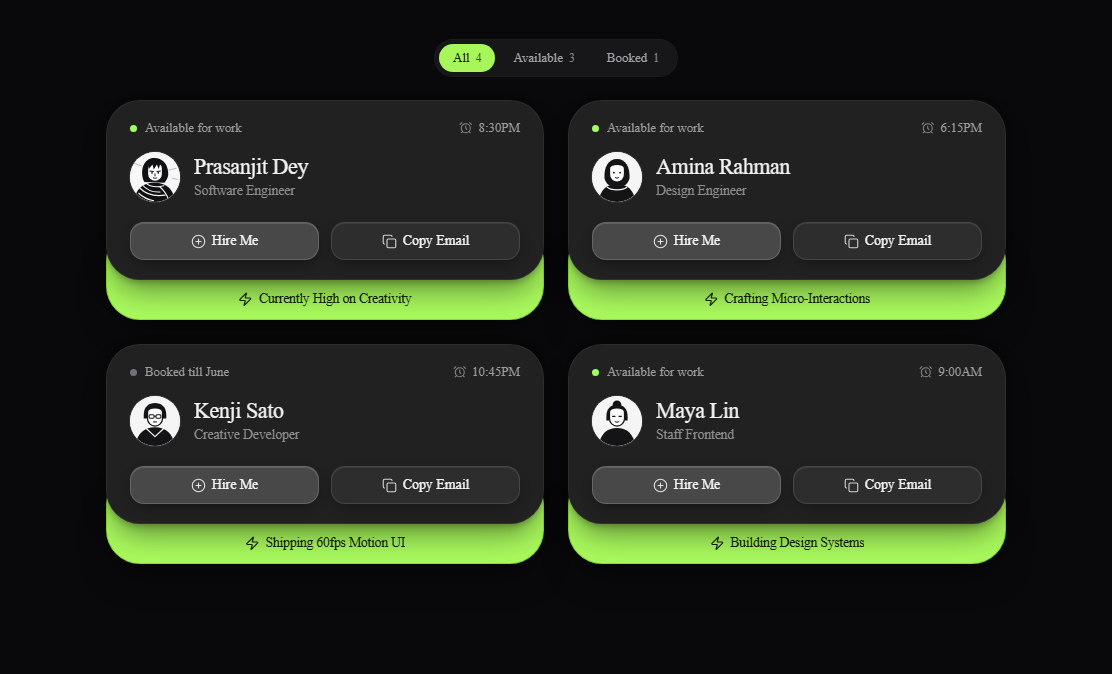
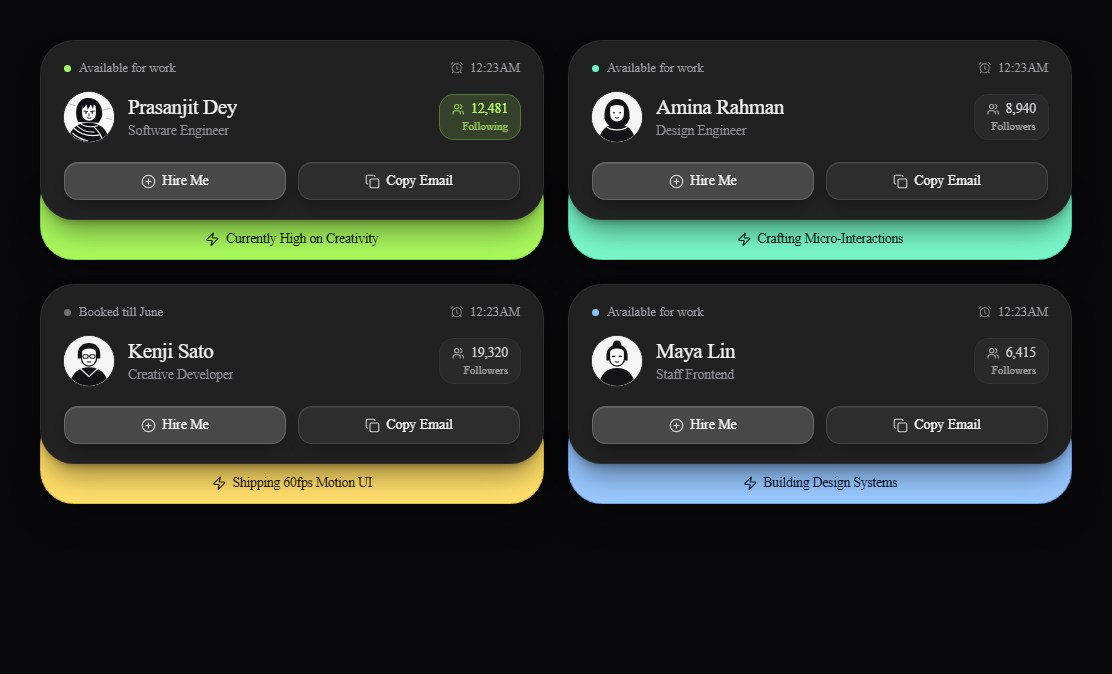
feat(registry): save DeveloperProfileGrid (developer-profile-grid) to project repo

diff --git a/registry/components/developer-profile-grid/component.tsx b/registry/components/developer-profile-grid/component.tsx
@@ -2,7 +2,7 @@
 
 import React, { useCallback, useEffect, useId, useRef, useState } from "react";
 import { AnimatePresence, motion, useReducedMotion } from "framer-motion";
-import { AlarmClock, Check, Copy, PlusCircle, Zap } from "lucide-react";
+import { AlarmClock, Check, Copy, PlusCircle, Users, Zap } from "lucide-react";
 
 function cn(...classes: Array<string | false | null | undefined>): string {
   return classes.filter(Boolean).join(" ");
@@ -19,6 +19,7 @@ export interface DeveloperProfileGridItem {
   bannerText: string;
   email: string;
   timeLabel: string;
+  followers: number;
   avatarUrl?: string;
   avatarVariant?: 0 | 1 | 2 | 3;
   accent?: TrayAccent;
@@ -34,12 +35,16 @@ export interface DeveloperProfileGridProps
   accentMode?: "lime" | "multicolor";
   /** Show interactive All / Available / Booked filter bar above the grid */
   showFilter?: boolean;
+  /** Show interactive follower count badge on each card */
+  showFollowers?: boolean;
   /** Display live local clock instead of static timeLabel */
   liveClock?: boolean;
   /** Fired when Hire Me is clicked on any card */
   onHireProfile?: (profile: DeveloperProfileGridItem) => void;
   /** Fired when Copy Email is clicked on any card */
   onCopyProfileEmail?: (profile: DeveloperProfileGridItem) => void;
+  /** Fired when Follow pill is toggled on any card */
+  onToggleFollow?: (profile: DeveloperProfileGridItem, following: boolean) => void;
 }
 
 const DEFAULT_PROFILES: DeveloperProfileGridItem[] = [
@@ -52,6 +57,7 @@ const DEFAULT_PROFILES: DeveloperProfileGridItem[] = [
     bannerText: "Currently High on Creativity",
     email: "prasanjit@example.com",
     timeLabel: "8:30PM",
+    followers: 12480,
     avatarVariant: 0,
     accent: "lime",
   },
@@ -64,6 +70,7 @@ const DEFAULT_PROFILES: DeveloperProfileGridItem[] = [
     bannerText: "Crafting Micro-Interactions",
     email: "amina@example.com",
     timeLabel: "6:15PM",
+    followers: 8940,
     avatarVariant: 1,
     accent: "mint",
   },
@@ -76,6 +83,7 @@ const DEFAULT_PROFILES: DeveloperProfileGridItem[] = [
     bannerText: "Shipping 60fps Motion UI",
     email: "kenji@example.com",
     timeLabel: "10:45PM",
+    followers: 19320,
     avatarVariant: 2,
     accent: "amber",
   },
@@ -88,6 +96,7 @@ const DEFAULT_PROFILES: DeveloperProfileGridItem[] = [
     bannerText: "Building Design Systems",
     email: "maya@example.com",
     timeLabel: "9:00AM",
+    followers: 6415,
     avatarVariant: 3,
     accent: "sky",
   },
@@ -100,6 +109,7 @@ const ACCENT_STYLES: Record<
     text: string;
     dot: string;
     copiedText: string;
+    followActive: string;
   }
 > = {
   lime: {
@@ -107,24 +117,28 @@ const ACCENT_STYLES: Record<
     text: "text-[#111c06]",
     dot: "bg-[#a0ff63]",
     copiedText: "text-[#b2fc68]",
+    followActive: "bg-[#a7f75b]/15 text-[#b2fc68] ring-[#a7f75b]/40",
   },
   mint: {
     tray: "bg-gradient-to-b from-[#6df5c4] to-[#7cf8cc] border-[#4cd9a6]",
     text: "text-[#062017]",
     dot: "bg-[#6df5c4]",
     copiedText: "text-[#7cf8cc]",
+    followActive: "bg-[#6df5c4]/15 text-[#7cf8cc] ring-[#6df5c4]/40",
   },
   amber: {
     tray: "bg-gradient-to-b from-[#ffd859] to-[#ffdf6e] border-[#e4bc3b]",
     text: "text-[#261c04]",
     dot: "bg-[#ffd859]",
     copiedText: "text-[#ffdf6e]",
+    followActive: "bg-[#ffd859]/15 text-[#ffdf6e] ring-[#ffd859]/40",
   },
   sky: {
     tray: "bg-gradient-to-b from-[#8cc0ff] to-[#9bc9ff] border-[#6ba4ea]",
     text: "text-[#08192e]",
     dot: "bg-[#8cc0ff]",
     copiedText: "text-[#9bc9ff]",
+    followActive: "bg-[#8cc0ff]/15 text-[#9bc9ff] ring-[#8cc0ff]/40",
   },
 };
 
@@ -135,6 +149,10 @@ function formatCurrentTime(): string {
   const suffix = hours >= 12 ? "PM" : "AM";
   hours = hours % 12 || 12;
   return `${hours}:${minutes}${suffix}`;
+}
+
+function formatFollowers(count: number): string {
+  return count.toLocaleString("en-US");
 }
 
 function MonochromeAvatar({
@@ -207,22 +225,27 @@ function MonochromeAvatar({
 interface GridProfileCardProps {
   profile: DeveloperProfileGridItem;
   accentKey: TrayAccent;
+  showFollowers: boolean;
   liveClock: boolean;
   prefersReducedMotion: boolean;
   onHire?: (profile: DeveloperProfileGridItem) => void;
   onCopy?: (profile: DeveloperProfileGridItem) => void;
+  onToggleFollow?: (profile: DeveloperProfileGridItem, following: boolean) => void;
 }
 
 function GridProfileCard({
   profile,
   accentKey,
+  showFollowers,
   liveClock,
   prefersReducedMotion,
   onHire,
   onCopy,
+  onToggleFollow,
 }: GridProfileCardProps) {
   const [copied, setCopied] = useState(false);
   const [hireAck, setHireAck] = useState(false);
+  const [following, setFollowing] = useState(false);
   const [isHovered, setIsHovered] = useState(false);
   const [avatarErr, setAvatarErr] = useState(false);
   const [clockText, setClockText] = useState(profile.timeLabel);
@@ -272,6 +295,14 @@ function GridProfileCard({
     hireTimerRef.current = setTimeout(() => setHireAck(false), 1800);
   }, [onHire, profile]);
 
+  const handleFollowToggle = useCallback(() => {
+    setFollowing((prev) => {
+      const next = !prev;
+      onToggleFollow?.(profile, next);
+      return next;
+    });
+  }, [onToggleFollow, profile]);
+
   const style = ACCENT_STYLES[accentKey];
   const springTransition = prefersReducedMotion
     ? { duration: 0.12 }
@@ -280,6 +311,8 @@ function GridProfileCard({
   const hasCustomAvatar = Boolean(
     profile.avatarUrl && profile.avatarUrl.trim().length > 0 && !avatarErr
   );
+
+  const displayedFollowers = profile.followers + (following ? 1 : 0);
 
   return (
     <motion.article
@@ -330,28 +363,66 @@ function GridProfileCard({
           </div>
         </div>
 
-        <div className="mt-4 flex items-center gap-3.5">
-          <div className="relative h-[50px] w-[50px] shrink-0 overflow-hidden rounded-full ring-1 ring-white/10 bg-[#f7f7f7]">
-            {hasCustomAvatar ? (
-              <img
-                src={profile.avatarUrl}
-                alt={profile.name}
-                onError={() => setAvatarErr(true)}
-                className="h-full w-full object-cover"
-              />
-            ) : (
-              <MonochromeAvatar variant={profile.avatarVariant ?? 0} className="h-full w-full" />
-            )}
+        <div className="mt-4 flex items-center justify-between gap-3">
+          <div className="flex items-center gap-3.5 min-w-0">
+            <div className="relative h-[50px] w-[50px] shrink-0 overflow-hidden rounded-full ring-1 ring-white/10 bg-[#f7f7f7]">
+              {hasCustomAvatar ? (
+                <img
+                  src={profile.avatarUrl}
+                  alt={profile.name}
+                  onError={() => setAvatarErr(true)}
+                  className="h-full w-full object-cover"
+                />
+              ) : (
+                <MonochromeAvatar variant={profile.avatarVariant ?? 0} className="h-full w-full" />
+              )}
+            </div>
+
+            <div className="min-w-0">
+              <h3 className="text-[20px] sm:text-[21px] font-medium leading-[1.2] tracking-[-0.018em] text-[#f3f3f4] truncate">
+                {profile.name}
+              </h3>
+              <p className="mt-0.5 text-[13.5px] font-normal leading-[1.3] text-[#8d8d92] truncate">
+                {profile.role}
+              </p>
+            </div>
           </div>
 
-          <div className="min-w-0 flex-1">
-            <h3 className="text-[20px] sm:text-[22px] font-medium leading-[1.2] tracking-[-0.018em] text-[#f3f3f4] truncate">
-              {profile.name}
-            </h3>
-            <p className="mt-0.5 text-[13.5px] font-normal leading-[1.3] text-[#8d8d92] truncate">
-              {profile.role}
-            </p>
-          </div>
+          {showFollowers && (
+            <motion.button
+              type="button"
+              onClick={handleFollowToggle}
+              aria-pressed={following}
+              aria-label={
+                following
+                  ? `Following ${profile.name}, ${formatFollowers(displayedFollowers)} followers`
+                  : `Follow ${profile.name}, ${formatFollowers(displayedFollowers)} followers`
+              }
+              whileTap={prefersReducedMotion ? undefined : { scale: 0.94 }}
+              transition={{ type: "spring", stiffness: 520, damping: 28 }}
+              className={cn(
+                "shrink-0 inline-flex flex-col items-end rounded-[14px] px-3 py-1.5 ring-1 transition-colors duration-150 focus-visible:outline-none focus-visible:ring-2 focus-visible:ring-[#a7f75b]",
+                following
+                  ? style.followActive
+                  : "bg-white/[0.04] text-[#d4d4d8] ring-white/[0.08] hover:bg-white/[0.08]"
+              )}
+            >
+              <span className="inline-flex items-center gap-1.5 text-[13.5px] font-medium leading-tight tabular-nums">
+                <Users className="h-[12.5px] w-[12.5px] opacity-80" strokeWidth={2} />
+                <motion.span
+                  key={displayedFollowers}
+                  initial={prefersReducedMotion ? false : { y: following ? -4 : 4, opacity: 0.5 }}
+                  animate={{ y: 0, opacity: 1 }}
+                  transition={{ duration: 0.16, ease: "easeOut" }}
+                >
+                  {formatFollowers(displayedFollowers)}
+                </motion.span>
+              </span>
+              <span className="text-[10.5px] font-normal tracking-wide opacity-70 leading-tight mt-0.5">
+                {following ? "Following" : "Followers"}
+              </span>
+            </motion.button>
+          )}
         </div>
 
         <div className="mt-5 grid grid-cols-2 gap-3">
@@ -478,9 +549,11 @@ export const DeveloperProfileGrid = React.forwardRef<
     columns = 2,
     accentMode = "lime",
     showFilter = true,
+    showFollowers = true,
     liveClock = false,
     onHireProfile,
     onCopyProfileEmail,
+    onToggleFollow,
     className,
     ...rest
   },
@@ -579,10 +652,12 @@ export const DeveloperProfileGrid = React.forwardRef<
               key={profile.id}
               profile={profile}
               accentKey={accentMode === "multicolor" ? profile.accent ?? "lime" : "lime"}
+              showFollowers={showFollowers}
               liveClock={liveClock}
               prefersReducedMotion={prefersReducedMotion}
               onHire={onHireProfile}
               onCopy={onCopyProfileEmail}
+              onToggleFollow={onToggleFollow}
             />
           ))}
         </AnimatePresence>

diff --git a/registry/components/developer-profile-grid/default.tsx b/registry/components/developer-profile-grid/default.tsx
@@ -7,6 +7,7 @@ const settings = {
   columns: 2,
   accentMode: "lime",
   showFilter: true,
+  showFollowers: true,
   liveClock: false,
 };
 
@@ -34,6 +35,7 @@ export default function DeveloperProfileGridDemo(
         columns={columns}
         accentMode={accentMode}
         showFilter={Boolean(config.showFilter)}
+        showFollowers={Boolean(config.showFollowers)}
         liveClock={Boolean(config.liveClock)}
       />
     </div>
